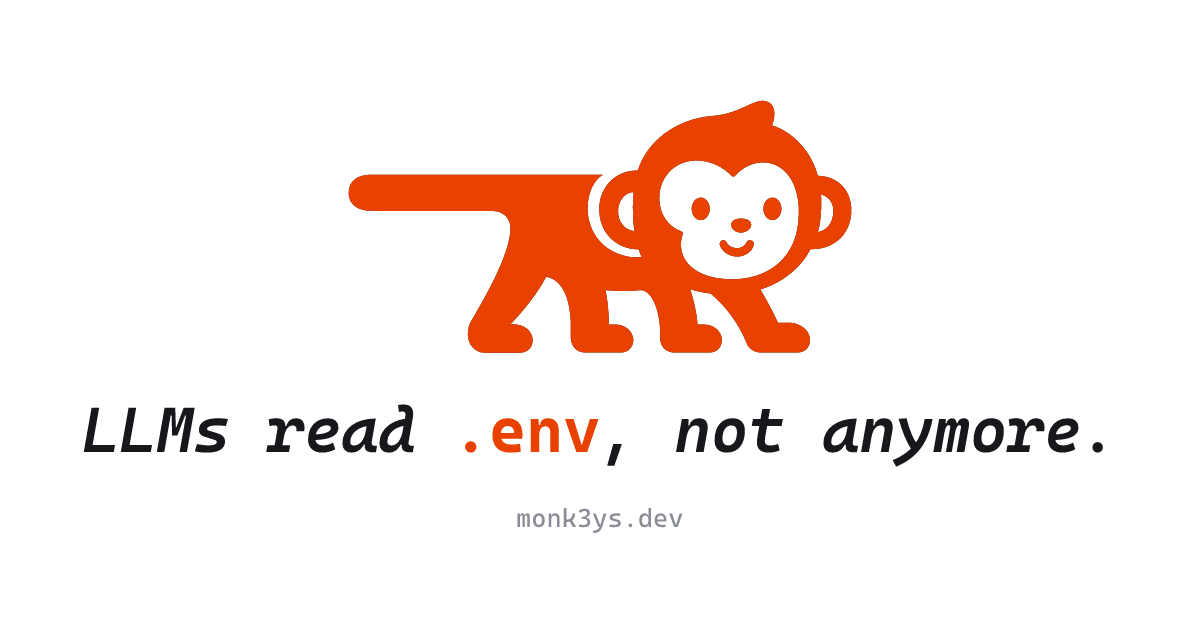
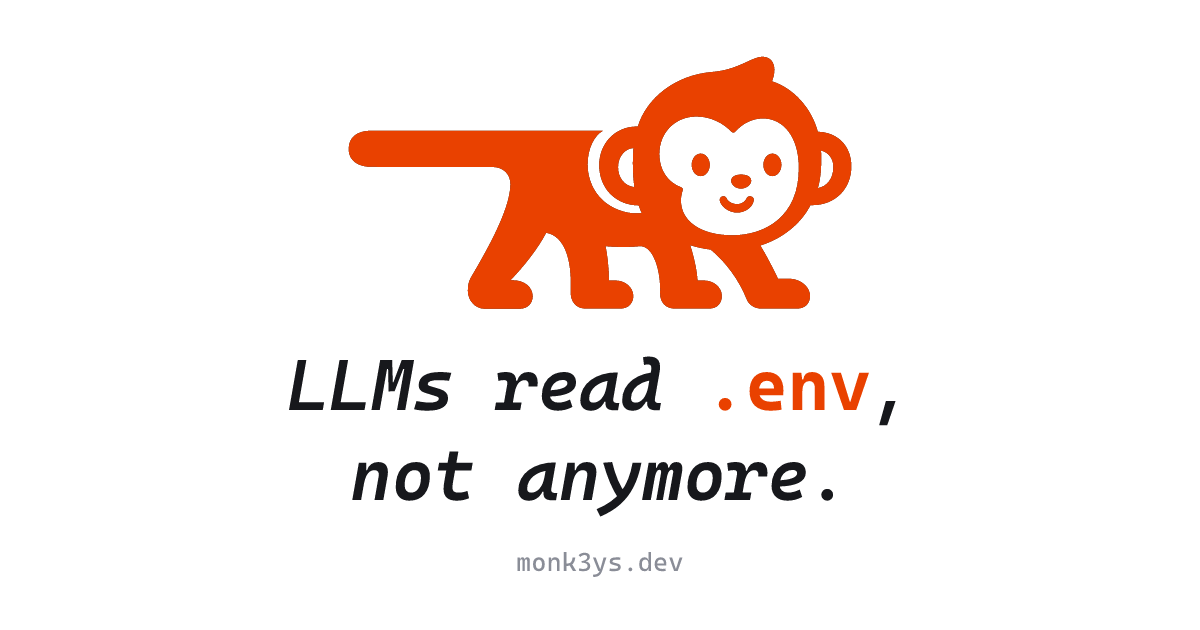
docs(site): the card's headline sits on two lines

Changed region(s): [[0.2158, 0.0905, 0.925, 0.8444], [0.0617, 0.6333, 0.185, 0.7238], [0.4317, 0.8746, 0.5858, 0.9048]]

diff --git a/site/scripts/og.ts b/site/scripts/og.ts
@@ -6,15 +6,15 @@ const statics = join(import.meta.dirname, '..', 'static');
 const orange = '#e94100';
 const ink = '#17181c';
 
-const headline = (parts: { text: string; color?: string; italic?: boolean }[]) => ({
+const line = (parts: { text: string; color?: string; italic?: boolean }[]) => ({
 	type: 'container',
-	style: { display: 'flex', flexDirection: 'row', alignItems: 'baseline' },
+	style: { display: 'flex', flexDirection: 'row', alignItems: 'baseline', justifyContent: 'center' },
 	children: parts.map((part) => ({
 		type: 'text',
 		text: part.text,
 		style: {
 			fontFamily: 'Cascadia Code',
-			fontSize: 64,
+			fontSize: 72,
 			fontWeight: part.color ? 700 : 600,
 			fontStyle: part.italic === false ? 'normal' : 'italic',
 			color: part.color ?? ink,
@@ -32,7 +32,7 @@ const card = {
 		flexDirection: 'column',
 		alignItems: 'center',
 		justifyContent: 'center',
-		gap: 36,
+		gap: 30,
 		backgroundColor: '#ffffff'
 	},
 	children: [
@@ -47,11 +47,14 @@ const card = {
 				}
 			]
 		},
-		headline([
-			{ text: 'LLMs read ' },
-			{ text: '.env', color: orange, italic: false },
-			{ text: ', not anymore.' }
-		]),
+		{
+			type: 'container',
+			style: { display: 'flex', flexDirection: 'column', alignItems: 'center', gap: 6 },
+			children: [
+				line([{ text: 'LLMs read ' }, { text: '.env', color: orange, italic: false }, { text: ',' }]),
+				line([{ text: 'not anymore.' }])
+			]
+		},
 		{
 			type: 'text',
 			text: 'monk3ys.dev',
